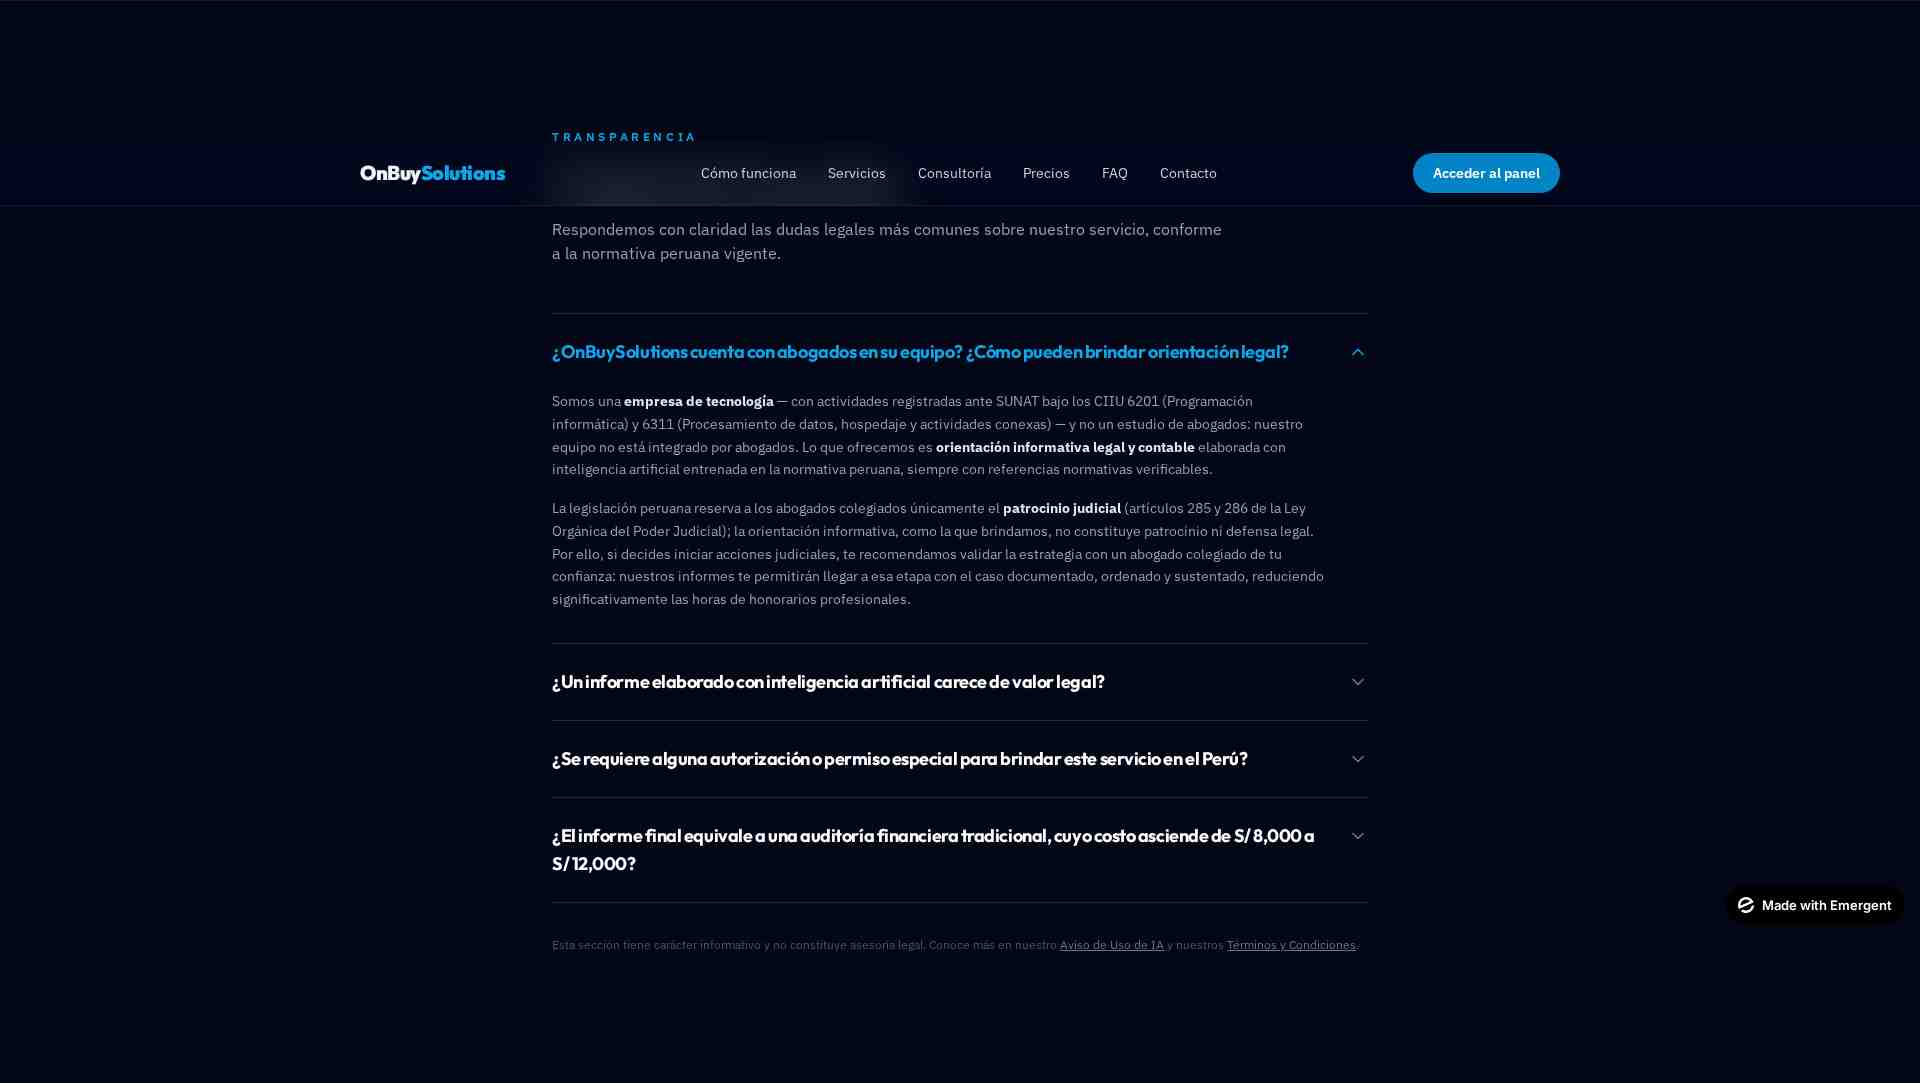
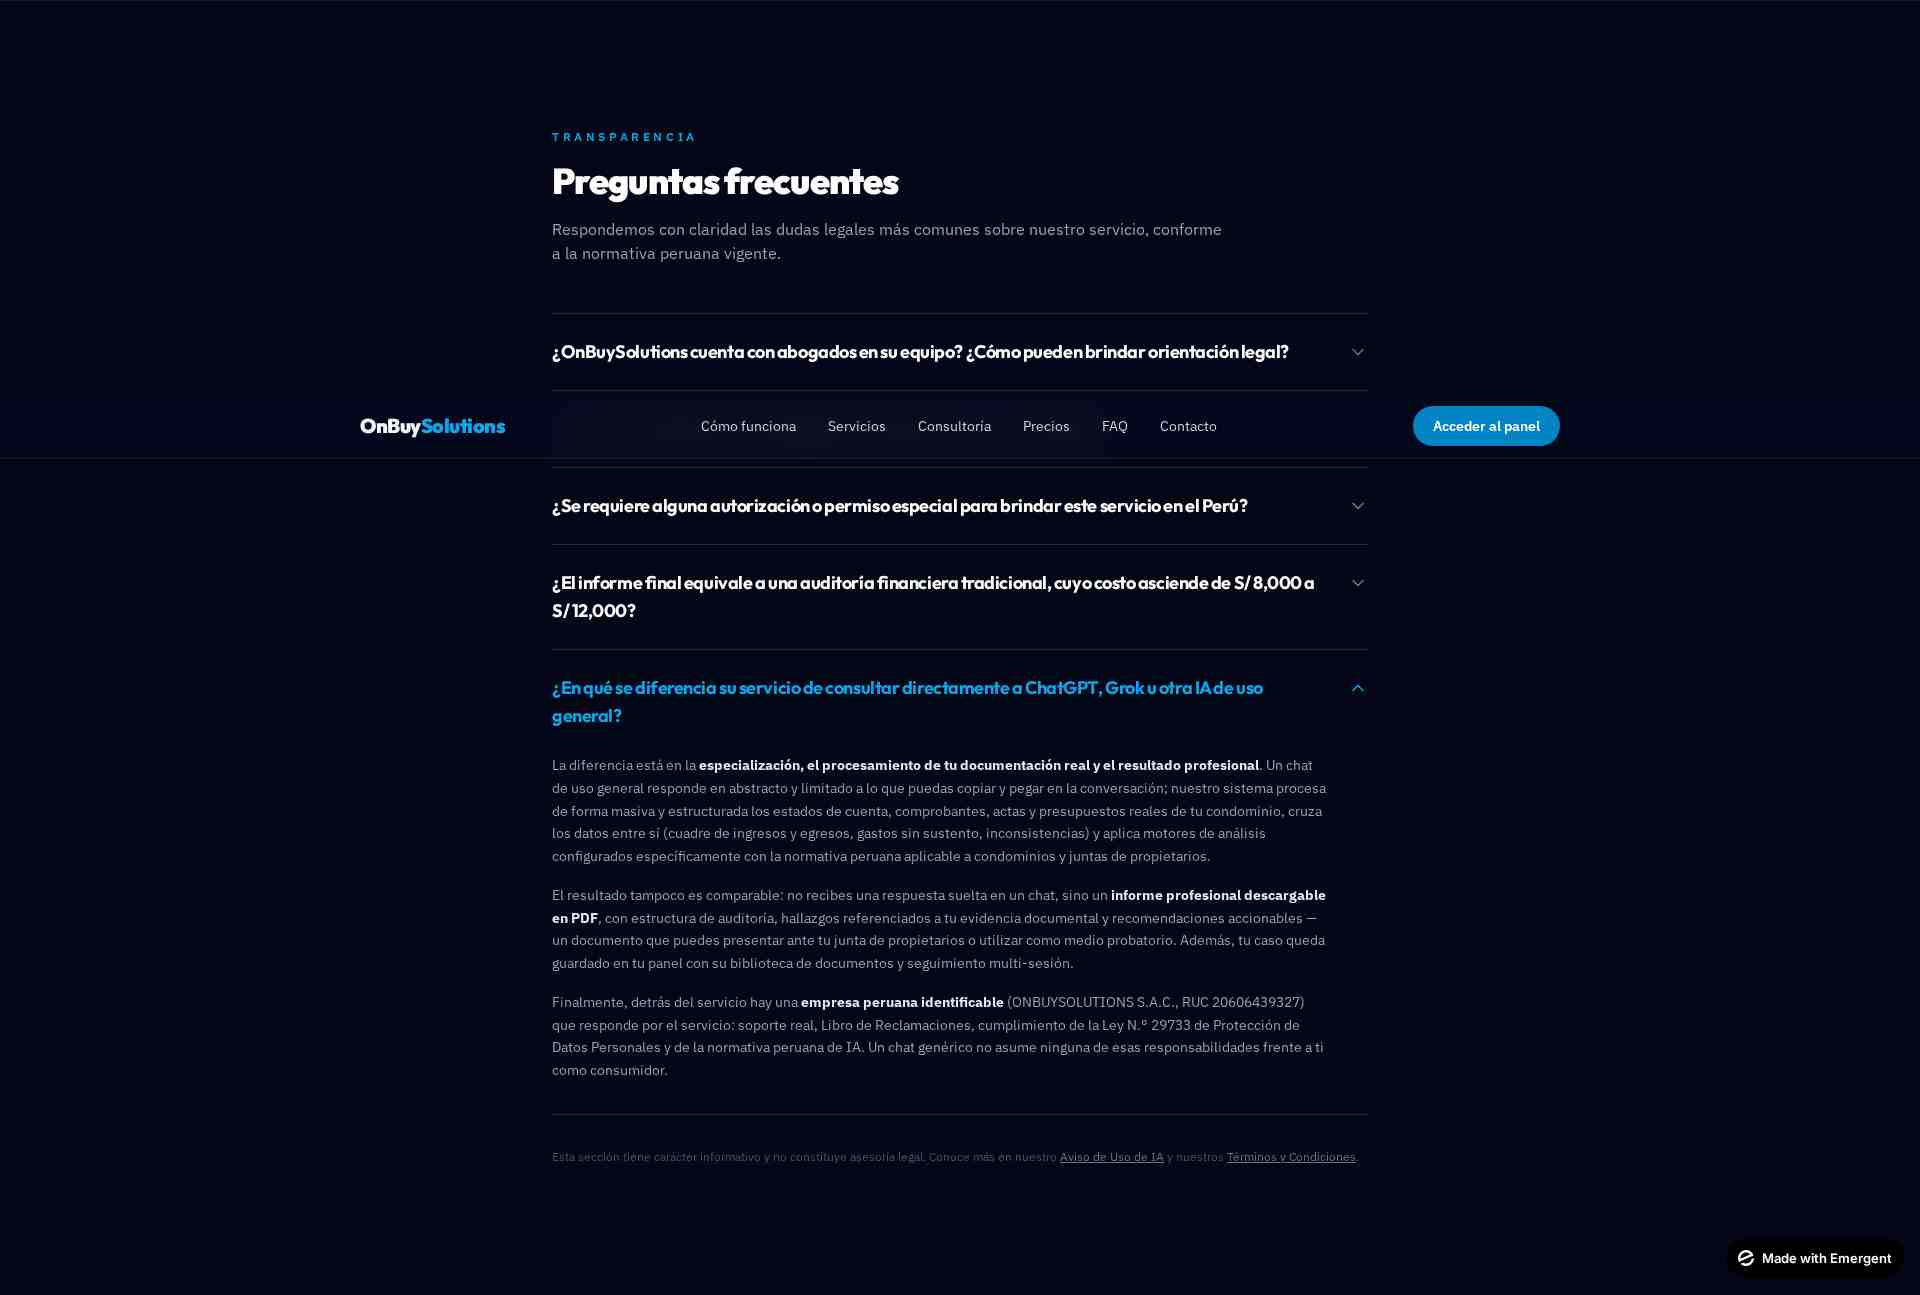
auto-commit for 3da621a2-e331-4ed0-b8eb-d2b9299655d8

diff --git a/frontend/src/components/AdminPayments.jsx b/frontend/src/components/AdminPayments.jsx
@@ -1,0 +1,143 @@
+import { useEffect, useState } from "react";
+import { CreditCard, RefreshCw } from "lucide-react";
+import { toast } from "sonner";
+import { api } from "@/lib/api";
+
+const fmtDate = (iso) =>
+  iso ? new Date(iso).toLocaleString("es-PE", { day: "2-digit", month: "short", year: "numeric", hour: "2-digit", minute: "2-digit" }) : "—";
+
+const STATUS_META = {
+  completed: { label: "Pagado", cls: "bg-emerald-50 text-emerald-700 border-emerald-200" },
+  created: { label: "Sin completar", cls: "bg-amber-50 text-amber-700 border-amber-200" },
+};
+
+const PLAN_LABELS = { small: "Pequeño", medium: "Mediano-grande" };
+
+export const AdminPayments = () => {
+  const [payments, setPayments] = useState(null);
+  const [loading, setLoading] = useState(false);
+
+  const load = async () => {
+    setLoading(true);
+    try {
+      const { data } = await api.get("/admin/payments");
+      setPayments(data);
+    } catch {
+      toast.error("No se pudo cargar el historial de pagos");
+    } finally {
+      setLoading(false);
+    }
+  };
+
+  useEffect(() => {
+    load();
+  }, []);
+
+  if (payments === null)
+    return <p className="text-sm text-slate-400 py-10 text-center">Cargando historial de pagos…</p>;
+
+  const completed = payments.filter((p) => p.status === "completed");
+  const totalUsd = completed.reduce((s, p) => s + (p.amount_usd || 0), 0);
+  const totalPen = completed.reduce((s, p) => s + (p.amount_pen || 0), 0);
+
+  return (
+    <div data-testid="admin-payments">
+      <div className="grid sm:grid-cols-3 gap-4 mb-6">
+        <div className="bg-white border border-slate-200 p-5" data-testid="payments-stat-count">
+          <p className="text-[10px] tracking-[0.2em] uppercase text-slate-500 font-semibold">Pagos completados</p>
+          <p className="font-heading font-black text-3xl text-[#0F172A] mt-1">{completed.length}</p>
+        </div>
+        <div className="bg-white border border-slate-200 p-5" data-testid="payments-stat-usd">
+          <p className="text-[10px] tracking-[0.2em] uppercase text-slate-500 font-semibold">Total cobrado (USD)</p>
+          <p className="font-heading font-black text-3xl text-[#0284C7] mt-1">
+            $ {totalUsd.toLocaleString("en-US", { minimumFractionDigits: 2 })}
+          </p>
+        </div>
+        <div className="bg-white border border-slate-200 p-5" data-testid="payments-stat-pen">
+          <p className="text-[10px] tracking-[0.2em] uppercase text-slate-500 font-semibold">Equivalente (S/)</p>
+          <p className="font-heading font-black text-3xl text-[#0F172A] mt-1">
+            S/ {totalPen.toLocaleString("es-PE", { minimumFractionDigits: 2 })}
+          </p>
+        </div>
+      </div>
+
+      <div className="bg-white border border-slate-200">
+        <div className="px-6 py-4 border-b border-slate-100 flex items-center justify-between">
+          <div className="flex items-center gap-3">
+            <CreditCard className="text-[#0284C7]" size={20} strokeWidth={1.5} />
+            <h3 className="font-heading font-bold text-[#0F172A]">Historial de transacciones PayPal</h3>
+          </div>
+          <button
+            onClick={load}
+            disabled={loading}
+            data-testid="payments-refresh-btn"
+            className="inline-flex items-center gap-1.5 text-xs text-slate-500 hover:text-[#0284C7] transition-colors disabled:opacity-50"
+          >
+            <RefreshCw size={13} className={loading ? "animate-spin" : ""} /> Actualizar
+          </button>
+        </div>
+
+        {payments.length === 0 ? (
+          <p className="text-sm text-slate-400 py-12 text-center" data-testid="payments-empty">
+            Aún no hay transacciones registradas. Cuando un cliente pague con PayPal aparecerá aquí.
+          </p>
+        ) : (
+          <div className="overflow-x-auto">
+            <table className="w-full text-sm">
+              <thead>
+                <tr className="bg-[#0F172A] text-white text-left">
+                  <th className="px-4 py-3 font-semibold text-xs tracking-wider uppercase">Fecha</th>
+                  <th className="px-4 py-3 font-semibold text-xs tracking-wider uppercase">Cliente</th>
+                  <th className="px-4 py-3 font-semibold text-xs tracking-wider uppercase hidden md:table-cell">Auditoría</th>
+                  <th className="px-4 py-3 font-semibold text-xs tracking-wider uppercase hidden sm:table-cell">Plan</th>
+                  <th className="px-4 py-3 font-semibold text-xs tracking-wider uppercase">Monto</th>
+                  <th className="px-4 py-3 font-semibold text-xs tracking-wider uppercase">Estado</th>
+                  <th className="px-4 py-3 font-semibold text-xs tracking-wider uppercase hidden lg:table-cell">ID transacción</th>
+                </tr>
+              </thead>
+              <tbody>
+                {payments.map((p) => {
+                  const meta = STATUS_META[p.status] || STATUS_META.created;
+                  return (
+                    <tr key={p.id} className="border-t border-slate-100" data-testid={`payment-row-${p.id}`}>
+                      <td className="px-4 py-3.5 text-slate-600 whitespace-nowrap text-xs">
+                        {fmtDate(p.captured_at || p.created_at)}
+                      </td>
+                      <td className="px-4 py-3.5">
+                        <p className="text-[#0F172A] font-medium text-xs">{p.user_email}</p>
+                        {p.payer_email && p.payer_email !== p.user_email && (
+                          <p className="text-[10px] text-slate-400">PayPal: {p.payer_email}</p>
+                        )}
+                      </td>
+                      <td className="px-4 py-3.5 text-slate-600 hidden md:table-cell text-xs">{p.condominium_name}</td>
+                      <td className="px-4 py-3.5 text-slate-600 hidden sm:table-cell text-xs">{PLAN_LABELS[p.plan] || p.plan}</td>
+                      <td className="px-4 py-3.5 whitespace-nowrap">
+                        <p className="font-semibold text-[#0F172A] text-xs">USD {Number(p.amount_usd).toFixed(2)}</p>
+                        <p className="text-[10px] text-slate-400">
+                          S/ {Number(p.amount_pen).toLocaleString("es-PE", { minimumFractionDigits: 2 })}
+                          {p.exchange_rate ? ` · T.C. ${(1 / p.exchange_rate).toFixed(3)}` : ""}
+                        </p>
+                      </td>
+                      <td className="px-4 py-3.5">
+                        <span className={`inline-flex items-center gap-1.5 border px-2.5 py-1 text-[10px] font-semibold uppercase tracking-wide ${meta.cls}`}>
+                          {meta.label}
+                        </span>
+                        {p.paypal_mode === "sandbox" && (
+                          <span className="block text-[9px] text-amber-600 mt-1">sandbox</span>
+                        )}
+                      </td>
+                      <td className="px-4 py-3.5 hidden lg:table-cell">
+                        <p className="font-mono text-[10px] text-slate-500">{p.capture_id || "—"}</p>
+                        <p className="font-mono text-[9px] text-slate-400">Orden: {p.order_id}</p>
+                      </td>
+                    </tr>
+                  );
+                })}
+              </tbody>
+            </table>
+          </div>
+        )}
+      </div>
+    </div>
+  );
+};

diff --git a/frontend/src/components/FaqSection.jsx b/frontend/src/components/FaqSection.jsx
@@ -92,6 +92,34 @@ const FAQS = [
       </>
     ),
   },
+  {
+    q: "¿En qué se diferencia su servicio de consultar directamente a ChatGPT, Grok u otra IA de uso general?",
+    a: (
+      <>
+        <p>
+          La diferencia está en la <b className="text-slate-200">especialización, el procesamiento de tu documentación
+          real y el resultado profesional</b>. Un chat de uso general responde en abstracto y limitado a lo que puedas
+          copiar y pegar en la conversación; nuestro sistema procesa de forma masiva y estructurada los estados de
+          cuenta, comprobantes, actas y presupuestos reales de tu condominio, cruza los datos entre sí (cuadre de
+          ingresos y egresos, gastos sin sustento, inconsistencias) y aplica motores de análisis configurados
+          específicamente con la normativa peruana aplicable a condominios y juntas de propietarios.
+        </p>
+        <p>
+          El resultado tampoco es comparable: no recibes una respuesta suelta en un chat, sino un{" "}
+          <b className="text-slate-200">informe profesional descargable en PDF</b>, con estructura de auditoría,
+          hallazgos referenciados a tu evidencia documental y recomendaciones accionables — un documento que puedes
+          presentar ante tu junta de propietarios o utilizar como medio probatorio. Además, tu caso queda guardado en
+          tu panel con su biblioteca de documentos y seguimiento multi-sesión.
+        </p>
+        <p>
+          Finalmente, detrás del servicio hay una <b className="text-slate-200">empresa peruana identificable</b>{" "}
+          (ONBUYSOLUTIONS S.A.C., RUC 20606439327) que responde por el servicio: soporte real, Libro de Reclamaciones,
+          cumplimiento de la Ley N.° 29733 de Protección de Datos Personales y de la normativa peruana de IA. Un chat
+          genérico no asume ninguna de esas responsabilidades frente a ti como consumidor.
+        </p>
+      </>
+    ),
+  },
 ];
 
 export const FaqSection = () => {

diff --git a/frontend/src/pages/Panel.jsx b/frontend/src/pages/Panel.jsx
@@ -32,6 +32,7 @@ import { AdminSettings } from "@/components/AdminSettings";
 import { AdminConsulting } from "@/components/AdminConsulting";
 import { AdminContacts } from "@/components/AdminContacts";
 import { AdminComplaints } from "@/components/AdminComplaints";
+import { AdminPayments } from "@/components/AdminPayments";
 
 const SAMPLE_CATS = {
   estado_cuenta: "Estado de cuenta",
@@ -306,6 +307,11 @@ export default function Panel() {
               </TabsTrigger>
             )}
             {user?.role === "admin" && (
+              <TabsTrigger value="pagos" data-testid="tab-pagos-admin" className="px-6 py-2.5 text-sm data-[state=active]:bg-[#0F172A] data-[state=active]:text-white">
+                Pagos
+              </TabsTrigger>
+            )}
+            {user?.role === "admin" && (
               <TabsTrigger value="mensajes" data-testid="tab-mensajes-admin" className="px-6 py-2.5 text-sm data-[state=active]:bg-[#0F172A] data-[state=active]:text-white">
                 Mensajes
               </TabsTrigger>
@@ -489,6 +495,11 @@ export default function Panel() {
           {user?.role === "admin" && (
             <TabsContent value="clientes" className="mt-8">
               <AdminUsers />
+            </TabsContent>
+          )}
+          {user?.role === "admin" && (
+            <TabsContent value="pagos" className="mt-8">
+              <AdminPayments />
             </TabsContent>
           )}
           {user?.role === "admin" && (

diff --git a/frontend/src/components/PaymentDialog.jsx b/frontend/src/components/PaymentDialog.jsx
@@ -116,7 +116,7 @@ export const PaymentDialog = ({ audit, open, onOpenChange, onPaid }) => {
             {config && quote && (
               <div data-testid="paypal-buttons-container">
                 <PayPalScriptProvider
-                  options={{ clientId: config.client_id, currency: "USD", intent: "capture" }}
+                  options={{ clientId: config.client_id, currency: "USD", intent: "capture", locale: "es_ES" }}
                 >
                   <PayPalButtons
                     forceReRender={[plan, quote.amount_usd]}

diff --git a/backend/routes/admin.py b/backend/routes/admin.py
@@ -149,6 +149,37 @@ async def admin_save_settings(data: SettingsInput, user: dict = Depends(get_curr
     return {"message": "Configuración guardada. Los cambios se aplican de inmediato."}
 
 
+# ---------- PAYMENTS HISTORY ----------
+
+@router.get("/payments")
+async def admin_list_payments(user: dict = Depends(get_current_user)):
+    require_admin(user)
+    docs = await db.payments.find({}).sort("created_at", -1).to_list(500)
+    audit_ids = list({d["audit_id"] for d in docs})
+    audits = await db.audits.find({"_id": {"$in": [ObjectId(a) for a in audit_ids]}}).to_list(500)
+    amap = {str(a["_id"]): a for a in audits}
+    return [
+        {
+            "id": str(d["_id"]),
+            "order_id": d["order_id"],
+            "capture_id": d.get("capture_id"),
+            "audit_id": d["audit_id"],
+            "condominium_name": amap.get(d["audit_id"], {}).get("condominium_name", "—"),
+            "user_email": d.get("user_email", "—"),
+            "plan": d.get("plan"),
+            "amount_pen": d.get("amount_pen"),
+            "amount_usd": d.get("amount_usd"),
+            "exchange_rate": d.get("exchange_rate_usd_per_pen"),
+            "status": d.get("status"),
+            "paypal_mode": d.get("paypal_mode"),
+            "payer_email": d.get("payer_email"),
+            "created_at": d.get("created_at"),
+            "captured_at": d.get("captured_at"),
+        }
+        for d in docs
+    ]
+
+
 # ---------- CONTACT INBOX ----------
 
 @router.get("/contacts")

diff --git a/memory/PRD.md b/memory/PRD.md
@@ -66,6 +66,10 @@ Sistema de auditorías a condominios en Perú usando la IA de Google más avanza
 
 - [x] Integración PayPal SANDBOX (2026-07): pago de auditorías con activación automática. Backend routes/payments.py (Orders API v2 REST vía httpx): GET /payments/config, GET /payments/quote?plan= (TC PEN→USD del día vía open.er-api.com, cache 6h en db.cache, muestra rate_pen_per_usd), POST /payments/create-order (valida dueño + pendiente_pago, orden USD sandbox real, registro en db.payments), POST /payments/capture/{order_id} (idempotente, maneja ORDER_ALREADY_CAPTURED, al completar: payments.status=completed + audits.payment_status=autorizada + authorized_by='PayPal (capture_id)' + email de confirmación Resend con tabla de transacción). Credenciales: backend/.env PAYPAL_CLIENT_ID/SECRET/MODE=sandbox con override en settings DB (campos configurables en Admin → Configuración → tarjeta 'Pagos con PayPal': client_id visible, secret enmascarado paypal_secret_masked, select modo sandbox/live con validación enum en PUT). Frontend: components/PaymentDialog.jsx (@paypal/react-paypal-js, selector plan small S/1100 / medium S/2100 dinámicos, cotización con TC, PayPalButtons con forceReRender) abierto desde banner en AuditDetail (open-payment-dialog-btn), onPaid recarga la auditoría. Testing iteration_14: backend 15/15, frontend 100%, 0 bugs. LIMITACIÓN: capture E2E no automatizable (popup seguro de PayPal) — pendiente prueba manual del usuario con cuenta buyer sandbox de developer.paypal.com. Auditoría de prueba 'Condominio Test PayPal' (cliente otptest) quedó en pendiente_pago para esa prueba
 
+- [x] FAQ pregunta 5 (2026-07): "¿En qué se diferencia su servicio de consultar directamente a ChatGPT, Grok u otra IA de uso general?" — respuesta en 3 ejes: especialización + procesamiento masivo de documentación real + normativa peruana; informe profesional PDF con evidencia referenciada vs respuesta suelta de chat; empresa peruana identificable (RUC, soporte, Libro de Reclamaciones, Ley 29733) que asume responsabilidad
+- [x] Pestaña "Pagos" en panel admin (2026-07): GET /api/admin/payments (join payments+audits) + AdminPayments.jsx — tarjetas de totales (pagos completados, total USD, equivalente S/) y tabla: fecha, cliente (+payer PayPal), auditoría, plan, monto USD/PEN/T.C., estado (Pagado/Sin completar + badge sandbox), capture_id y order_id. Botón actualizar. Verificado con registro de prueba
+- [x] Botones PayPal en español (2026-07): locale es_ES en PayPalScriptProvider — verificado: "Pagar con PayPal", "Tarjeta de débito o crédito", "Desarrollado por PayPal"
+
 ## Estado conocido
 - ✅ Saldo de la Emergent LLM Key RECARGADO (2026-06): todos los flujos IA verificados de nuevo (chat consultoría, informe final, imágenes Nano Banana). Consumo de hoy: ~7 llamadas de chat, 2 informes, 2 imágenes — monitorear saldo.
 
